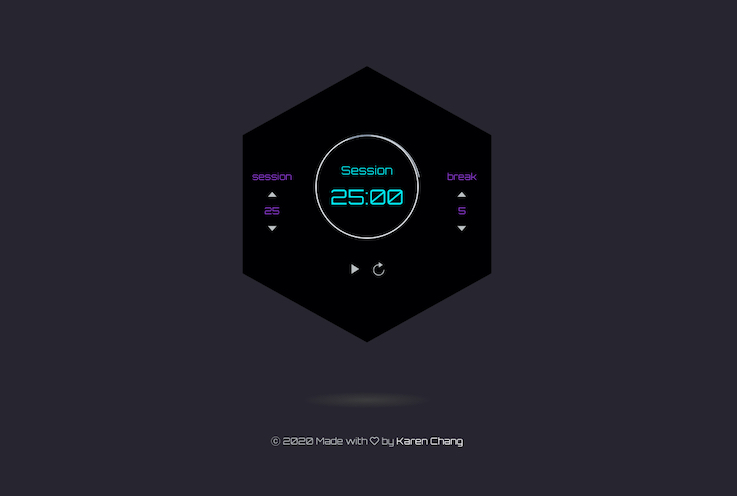
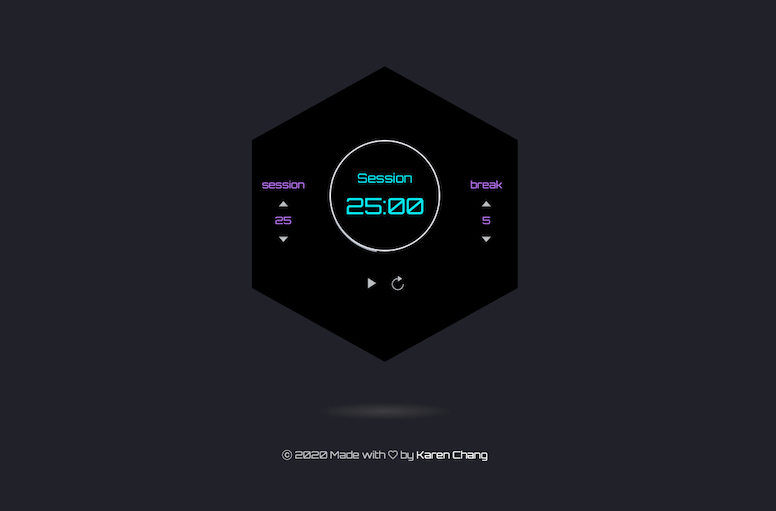
update css

diff --git a/src/components/Pomodoro.css b/src/components/Pomodoro.css
@@ -6,8 +6,8 @@ body {
   margin          : 0;
   text-align      : center;
   font-family     : 'Orbitron', sans-serif;
-  background-color: #2e2a36;
-  color           : #9740df;
+  background-color: #24242e;
+  color           : #c180fd;
 }
 
 .pomodoro-wrapper {
@@ -134,10 +134,11 @@ button {
 
 .react-icons:hover {
   transform: scale(1.4);
+  color    : #d4478e;
 }
 
 .react-icons:active {
-  color: #fff
+  color: #ff42a1;
 }
 
 .shadow {
@@ -145,7 +146,7 @@ button {
   width        : 16em;
   height       : 2em;
   border-radius: 50%;
-  background   : radial-gradient(#464545, rgba(0, 0, 0, 0) 50%);
+  background   : radial-gradient(#474747, rgba(0, 0, 0, 0) 50%);
 }
 
 .footer {
